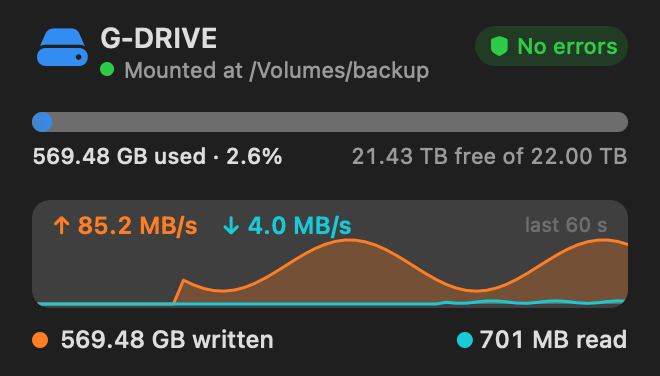
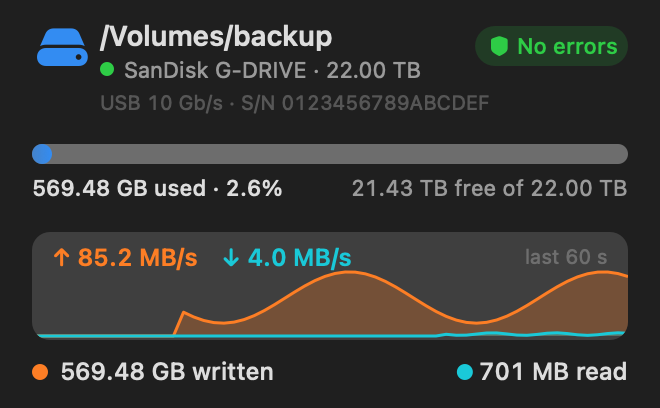
Dashboard header: mount point, drive vendor/model/capacity, USB link speed and serial number; README: what No errors means

diff --git a/Sources/btrfs4mac/Dashboard.swift b/Sources/btrfs4mac/Dashboard.swift
@@ -1,8 +1,11 @@
 import AppKit
 
 struct DashboardData {
-    var name = "Drive"
     var mountPoint = ""
+    /// "SanDisk G-DRIVE · 22.00 TB"
+    var model = ""
+    /// "USB 10 Gb/s · S/N 3247…"
+    var link = ""
     var used: Double = 0
     var total: Double = 0
     var errors: Int?
@@ -17,7 +20,7 @@ struct DashboardData {
 /// The card at the top of the menu: drive, health, space, live throughput and totals.
 final class DashboardView: NSView {
     static let historyLength = 60
-    static let size = NSSize(width: 330, height: 188)
+    static let size = NSSize(width: 330, height: 204)
 
     var data = DashboardData() { didSet { needsDisplay = true } }
 
@@ -60,10 +63,11 @@ final class DashboardView: NSView {
                 .applying(.init(paletteColors: [brand]))) {
             icon.draw(in: NSRect(x: margin, y: 12, width: icon.size.width, height: icon.size.height))
         }
-        draw(data.name, at: NSPoint(x: margin + 34, y: 10), size: 14, weight: .semibold)
+        draw(data.mountPoint, at: NSPoint(x: margin + 34, y: 9), size: 14, weight: .semibold)
         NSColor.systemGreen.setFill()
         NSBezierPath(ovalIn: NSRect(x: margin + 34, y: 31, width: 7, height: 7)).fill()
-        draw("Mounted at \(data.mountPoint)", at: NSPoint(x: margin + 46, y: 28), size: 11, color: .secondaryLabelColor)
+        draw(data.model, at: NSPoint(x: margin + 46, y: 28), size: 11, color: .secondaryLabelColor)
+        draw(data.link, at: NSPoint(x: margin + 34, y: 45), size: 10, color: .tertiaryLabelColor, monospaced: true)
 
         if let errors = data.errors {
             let ok = errors == 0
@@ -83,7 +87,7 @@ final class DashboardView: NSView {
 
         // Space bar.
         let fraction = data.total > 0 ? min(max(data.used / data.total, 0), 1) : 0
-        let barY: CGFloat = 56
+        let barY: CGFloat = 72
         let track = NSRect(x: margin, y: barY, width: inner, height: 10)
         NSColor.tertiaryLabelColor.withAlphaComponent(0.35).setFill()
         NSBezierPath(roundedRect: track, xRadius: 5, yRadius: 5).fill()
@@ -101,7 +105,7 @@ final class DashboardView: NSView {
              rightAligned: true, monospaced: true)
 
         // Activity graph.
-        let panel = NSRect(x: margin, y: 100, width: inner, height: 54)
+        let panel = NSRect(x: margin, y: 116, width: inner, height: 54)
         NSColor.tertiaryLabelColor.withAlphaComponent(0.14).setFill()
         NSBezierPath(roundedRect: panel, xRadius: 9, yRadius: 9).fill()
 
@@ -123,7 +127,7 @@ final class DashboardView: NSView {
              color: .tertiaryLabelColor, rightAligned: true)
 
         // Totals.
-        let totalsY: CGFloat = 162
+        let totalsY: CGFloat = 178
         if let written = data.written, let read = data.read {
             writeColor.setFill()
             NSBezierPath(ovalIn: NSRect(x: margin, y: totalsY + 4, width: 8, height: 8)).fill()

diff --git a/Sources/btrfs4mac/main.swift b/Sources/btrfs4mac/main.swift
@@ -12,6 +12,7 @@ final class AppDelegate: NSObject, NSApplicationDelegate, NSMenuDelegate {
     private let keepAlive = KeepAlive()
     private var state: State = .notConnected
     private var drive: DriveInfo?
+    private var hardware: DriveHardware?
     private var driveChoices: [DriveInfo] = []
     private var sampler = ActivitySampler()
     private var activity: ActivitySampler.Activity = .idle
@@ -75,8 +76,10 @@ final class AppDelegate: NSObject, NSApplicationDelegate, NSMenuDelegate {
             var found: DriveInfo?
             if let pinned = Config.pinnedDiskName { found = all.first { $0.name == pinned } } else { found = all.first }
             let space = mounted ? spaceNumbers() : nil
+            let hardware = found.flatMap { driveHardware(disk: $0.disk) }
             DispatchQueue.main.async {
                 self.driveChoices = all
+                if let hardware { self.hardware = hardware }
                 if case .busy = self.state { return }
                 if mounted {
                     // A mount is dead when the drive came back under another name (sure sign),
@@ -157,8 +160,15 @@ final class AppDelegate: NSObject, NSApplicationDelegate, NSMenuDelegate {
 
     private func dashboardData() -> DashboardData {
         var d = DashboardData()
-        d.name = driveName
         d.mountPoint = Config.mountPoint
+        let make = [hardware?.vendor, hardware?.product].compactMap { $0 }.filter { !$0.isEmpty }.joined(separator: " ")
+        d.model = (make.isEmpty ? driveName : make) + (drive.map { " · " + formatBytes($0.size) } ?? "")
+        var link: [String] = []
+        if let bits = hardware?.linkBitsPerSecond, bits > 0 {
+            link.append(bits >= 1e9 ? String(format: "USB %.0f Gb/s", bits / 1e9) : String(format: "USB %.0f Mb/s", bits / 1e6))
+        }
+        if let serial = hardware?.serial, !serial.isEmpty { link.append("S/N " + serial) }
+        d.link = link.joined(separator: " · ")
         if let space {
             d.total = space.size
             d.used = max(space.size - space.free, 0)

diff --git a/Sources/btrfs4mac/Activity.swift b/Sources/btrfs4mac/Activity.swift
@@ -60,3 +60,37 @@ struct ActivitySampler {
 func formatRate(_ bytesPerSecond: Double) -> String {
     String(format: "%.1f MB/s", bytesPerSecond / 1_000_000)
 }
+
+struct DriveHardware {
+    var vendor = ""
+    var product = ""
+    var serial = ""
+    var linkBitsPerSecond: Double = 0
+}
+
+/// What the USB device behind /dev/<disk> reports about itself.
+func driveHardware(disk bsdName: String) -> DriveHardware? {
+    let match = IOServiceMatching("IOMedia") as NSMutableDictionary
+    match["IOPropertyMatch"] = ["BSD Name": bsdName]
+    var entry = IOServiceGetMatchingService(kIOMainPortDefault, match)
+    guard entry != 0 else { return nil }
+    defer { IOObjectRelease(entry) }
+
+    for _ in 0..<16 {
+        var parent: io_registry_entry_t = 0
+        guard IORegistryEntryGetParentEntry(entry, kIOServicePlane, &parent) == KERN_SUCCESS else { return nil }
+        IOObjectRelease(entry)
+        entry = parent
+        guard IOObjectConformsTo(entry, "IOUSBHostDevice") != 0 else { continue }
+        func property(_ key: String) -> Any? {
+            IORegistryEntryCreateCFProperty(entry, key as CFString, kCFAllocatorDefault, 0)?.takeRetainedValue()
+        }
+        var hardware = DriveHardware()
+        hardware.vendor = (property("USB Vendor Name") as? String) ?? ""
+        hardware.product = (property("USB Product Name") as? String) ?? ""
+        hardware.serial = (property("USB Serial Number") as? String) ?? ""
+        hardware.linkBitsPerSecond = (property("UsbLinkSpeed") as? NSNumber)?.doubleValue ?? 0
+        return hardware
+    }
+    return nil
+}

diff --git a/README.md b/README.md
@@ -14,7 +14,7 @@ It works with **any external drive**, whatever the make: the drive is found auto
 - **One-click unlock and mount.** Finds the drive, asks for the LUKS passphrase (optionally remembers it in the Keychain), mounts the volume, opens Finder.
 - **One-click eject.** "Eject Drive and Quit" unmounts, stops the VM, ejects the drive and quits, leaving no `anylinuxfs`, `vmnet-helper` or `gvproxy` process behind.
 - **Keep the drive awake.** Many USB drives power themselves off after a minute or so of idle, which kills a mounted volume. While mounted, the app writes and syncs a few bytes every 20 seconds so the drive never idles.
-- **Live dashboard** at the top of the menu: used/free space bar, a 60-second read/write throughput graph with the current rates, a health badge (`btrfs device stats`), and the bytes written and read.
+- **Live dashboard** at the top of the menu: the mount point, the drive's vendor, model, capacity, USB link speed and serial number, a used/free space bar, a 60-second read/write throughput graph with the current rates, a health badge (`btrfs device stats`, see "What \"No errors\" means"), and the bytes written and read.
 - **Btrfs card** in the main menu: every subvolume with its size (open, create, snapshot one) and snapshots (open, delete, snapshot everything) as rows with buttons, plus a scrub (full checksum check of all data) with an estimated progress bar and the result of the last run.
 - **LUKS header backup and verify.** Saves the LUKS header to a file you choose and compares a saved file with the drive later.
 - **Recovers from a dropped drive.** If the drive comes back under a new disk name, the dead mount is cleared and the app asks again.
@@ -124,3 +124,15 @@ Nothing else leaves your Mac: not the LUKS passphrase, not the Mac password, not
 - It runs [anylinuxfs](https://github.com/nohajc/anylinuxfs) (GPL-3.0) as a separate program that you install yourself; no anylinuxfs code is included or linked.
 - The small glyphs in the menu are Apple SF Symbols, used inside the app's interface as Apple's terms allow. The app icon is an original drawing (`scripts/make-icon.swift`) and does not use SF Symbols.
 - Not affiliated with or endorsed by SanDisk, Western Digital, Apple or the anylinuxfs project. Product names are used only to say what the tool was tested with.
+
+## What "No errors" means
+
+The badge on the dashboard reads Btrfs' own per-device error counters, the ones `btrfs device stats` prints, through the VM. Btrfs keeps them in the filesystem itself and bumps them whenever something goes wrong:
+
+- `write_io_errs`, `read_io_errs`, `flush_io_errs`: the drive failed or refused a write, a read or a flush
+- `corruption_errs`: a block was read and its checksum did not match (silent corruption caught)
+- `generation_errs`: a block's generation number did not match what the metadata expects (an inconsistency)
+
+The app adds the five up. All zero is the green "No errors"; anything else turns the badge red with the total.
+
+What it does not tell you: the counters only move when Btrfs actually touches something broken, so data nobody has read since it went bad is unchecked (a scrub, in the Btrfs card, reads and verifies everything). It is also not SMART: SMART is not available through most USB bridges, so wear, reallocated sectors and temperature stay invisible. The counters last from when the filesystem was created until someone resets them with `btrfs device stats -z`.
